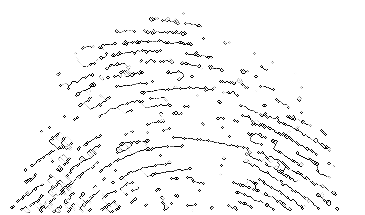
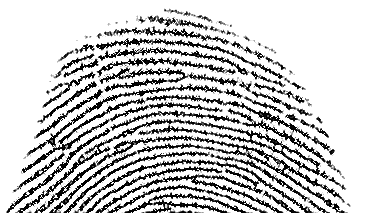
Szakdoga 4 Erosion and dilation.

Changed region(s): [[0.0, 0.0279, 0.9644, 1.0], [0.663, 0.1674, 0.6932, 0.1953]]

diff --git a/Kim/szakdoga4.py b/Kim/szakdoga4.py
@@ -2,12 +2,11 @@ import cv2
 import bcolors
 from Common.functions import imreadgray
 from Common.functions import flip
-from Common.functions import open
-from Common.functions import openfar
+from Common.functions import erosion
+from Common.functions import dilation
 from Common.functions import equalmatrix
 from Common.functions import makeequalmatrix
 from Common.functions import countf
-from Common.functions import erosion
 
 print(bcolors.OK, " _  ___             _                  _____ _           _ ")
 print(" | |/ (_)           | |                / ____| |         (_)")
@@ -17,9 +16,8 @@ print(" | . \| | | | | | | | |___|  __/  __/ | |____| | | | (_) | |")
 print(" |_|\_\_|_| |_| |_| |______\___|\___|  \_____|_| |_|\___/|_|", bcolors.ENDC)
 
 # Reading in the image as a gray image
-picture = 'fingerprintmini'
+picture = 'sima'
 
-img = imreadgray('../Common/' + picture + '.png')
 img2 = imreadgray('../Common/' + picture + '.png')
 comp = imreadgray('../Common/' + picture + '.png')
 compstar = imreadgray('../Common/' + picture + '.png')
@@ -28,9 +26,12 @@ E = imreadgray('../Common/' + picture + '.png')
 R = imreadgray('../Common/' + picture + '.png')
 O1 = imreadgray('../Common/' + picture + '.png')
 O2 = imreadgray('../Common/' + picture + '.png')
+helper1 = imreadgray('../Common/' + picture + '.png')
+helper2 = imreadgray('../Common/' + picture + '.png')
+helper3 = imreadgray('../Common/' + picture + '.png')
+helper4 = imreadgray('../Common/' + picture + '.png')
 
 # Converting values 0-255
-flip(img)
 flip(img2)
 flip(comp)
 flip(compstar)
@@ -41,20 +42,26 @@ flip(O1)
 flip(O2)
 
 # Initialization
-h = 10
-size = img.shape
+h = 30
+size = comp.shape
 for row in range(0, size[0]):
     for col in range(0, size[1]):
-        O1[row][col] = 0
-        O2[row][col] = 0
-        E[row][col] = 0
-        R[row][col] = 0
         compstar[row][col] = 0
         c8[row][col] = 0
+        E[row][col] = 0
+        R[row][col] = 0
+        O1[row][col] = 0
+        O2[row][col] = 0
+        helper1[row][col] = 0
+        helper2[row][col] = 0
+        helper3[row][col] = 0
+        helper4[row][col] = 0
+
 equal = True
 lepes = 1
 
-print('Comp:', comp)
+print('Comp:')
+print(comp)
 
 while equal:
 
@@ -62,13 +69,36 @@ while equal:
     for row in range(1, size[0] - 1):
         for col in range(1, size[1] - 1):
             E[row][col] = erosion(comp, row, col)
-    # print('E:', E)
+    print('E:', E)
 
     # Ridge detection
-    for row in range(2, size[0] - 2):
-        for col in range(2, size[1] - 2):
-            O1[row][col] = open(img, row, col)
-            O2[row][col] = openfar(img, row, col)
+    for row in range(1, size[0] - 1):
+        for col in range(1, size[1] - 1):
+            O1[row][col] = erosion(comp, row, col)
+            O2[row][col] = erosion(comp, row, col)
+
+    makeequalmatrix(helper1, O1, size)
+    makeequalmatrix(helper2, O2, size)
+
+    for row in range(1, size[0] - 1):
+        for col in range(1, size[1] - 1):
+            O1[row][col] = dilation(helper1, row, col)
+            O2[row][col] = erosion(helper2, row, col)
+
+    makeequalmatrix(helper3, O2, size)
+
+    for row in range(1, size[0] - 1):
+        for col in range(1, size[1] - 1):
+            O2[row][col] = dilation(helper3, row, col)
+
+    makeequalmatrix(helper4, O2, size)
+
+    for row in range(1, size[0] - 1):
+        for col in range(1, size[1] - 1):
+            O2[row][col] = dilation(helper4, row, col)
+
+    # print('O1:', O1)
+    # print('O2:', O2)
 
     for row in range(1, size[0] - 1):
         for col in range(1, size[1] - 1):
@@ -76,7 +106,7 @@ while equal:
                 R[row][col] = comp[row][col]
             else:
                 R[row][col] = 0
-    # print('R:', R)
+    print('R:', R)
 
     # Comp*
     for row in range(1, size[0] - 1):

diff --git a/Common/functions.py b/Common/functions.py
@@ -340,7 +340,7 @@ def connectedpath(img, row, col):
 
 
 # Returns the maximum neighbours value in the 3x3 neighbourhood
-def open(img, row, col):
+def dilation(img, row, col):
     x = int(img[row][col])
     if int(img[row][col + 1]) > x:
         x = int(img[row][col + 1])
@@ -384,8 +384,8 @@ def erosion(img, row, col):
 
 
 # Returns the maximum value in the 5x5 neighbourhood
-def openfar(img, row, col):
-    x = open(img, row, col)
+def dilationfar(img, row, col):
+    x = dilation(img, row, col)
     if int(img[row][col + 2]) > x:
         x = int(img[row][col + 2])
     if int(img[row - 1][col + 2]) > x:
@@ -417,6 +417,44 @@ def openfar(img, row, col):
     if int(img[row + 2][col + 2]) > x:
         x = int(img[row + 2][col + 2])
     if int(img[row + 1][col + 2]) > x:
+        x = int(img[row + 1][col + 2])
+    return x
+
+
+# Returns the minimum value in the 5x5 neighbourhood
+def erosionfar(img, row, col):
+    x = erosion(img, row, col)
+    if int(img[row][col + 2]) < x:
+        x = int(img[row][col + 2])
+    if int(img[row - 1][col + 2]) < x:
+        x = int(img[row - 1][col + 2])
+    if int(img[row - 2][col + 2]) < x:
+        x = int(img[row - 2][col + 2])
+    if int(img[row - 2][col + 1]) < x:
+        x = int(img[row - 2][col + 1])
+    if int(img[row - 2][col]) < x:
+        x = int(img[row - 2][col])
+    if int(img[row - 2][col - 1]) < x:
+        x = int(img[row - 2][col - 1])
+    if int(img[row - 2][col - 2]) < x:
+        x = int(img[row - 2][col - 2])
+    if int(img[row - 1][col - 2]) < x:
+        x = int(img[row - 1][col - 2])
+    if int(img[row][col - 2]) < x:
+        x = int(img[row][col - 2])
+    if int(img[row + 1][col - 2]) < x:
+        x = int(img[row + 1][col - 2])
+    if int(img[row + 2][col - 2]) < x:
+        x = int(img[row + 2][col - 2])
+    if int(img[row + 2][col - 1]) < x:
+        x = int(img[row + 2][col - 1])
+    if int(img[row + 2][col]) < x:
+        x = int(img[row + 2][col])
+    if int(img[row + 2][col + 1]) < x:
+        x = int(img[row + 2][col + 1])
+    if int(img[row + 2][col + 2]) < x:
+        x = int(img[row + 2][col + 2])
+    if int(img[row + 1][col + 2]) < x:
         x = int(img[row + 1][col + 2])
     return x
 
